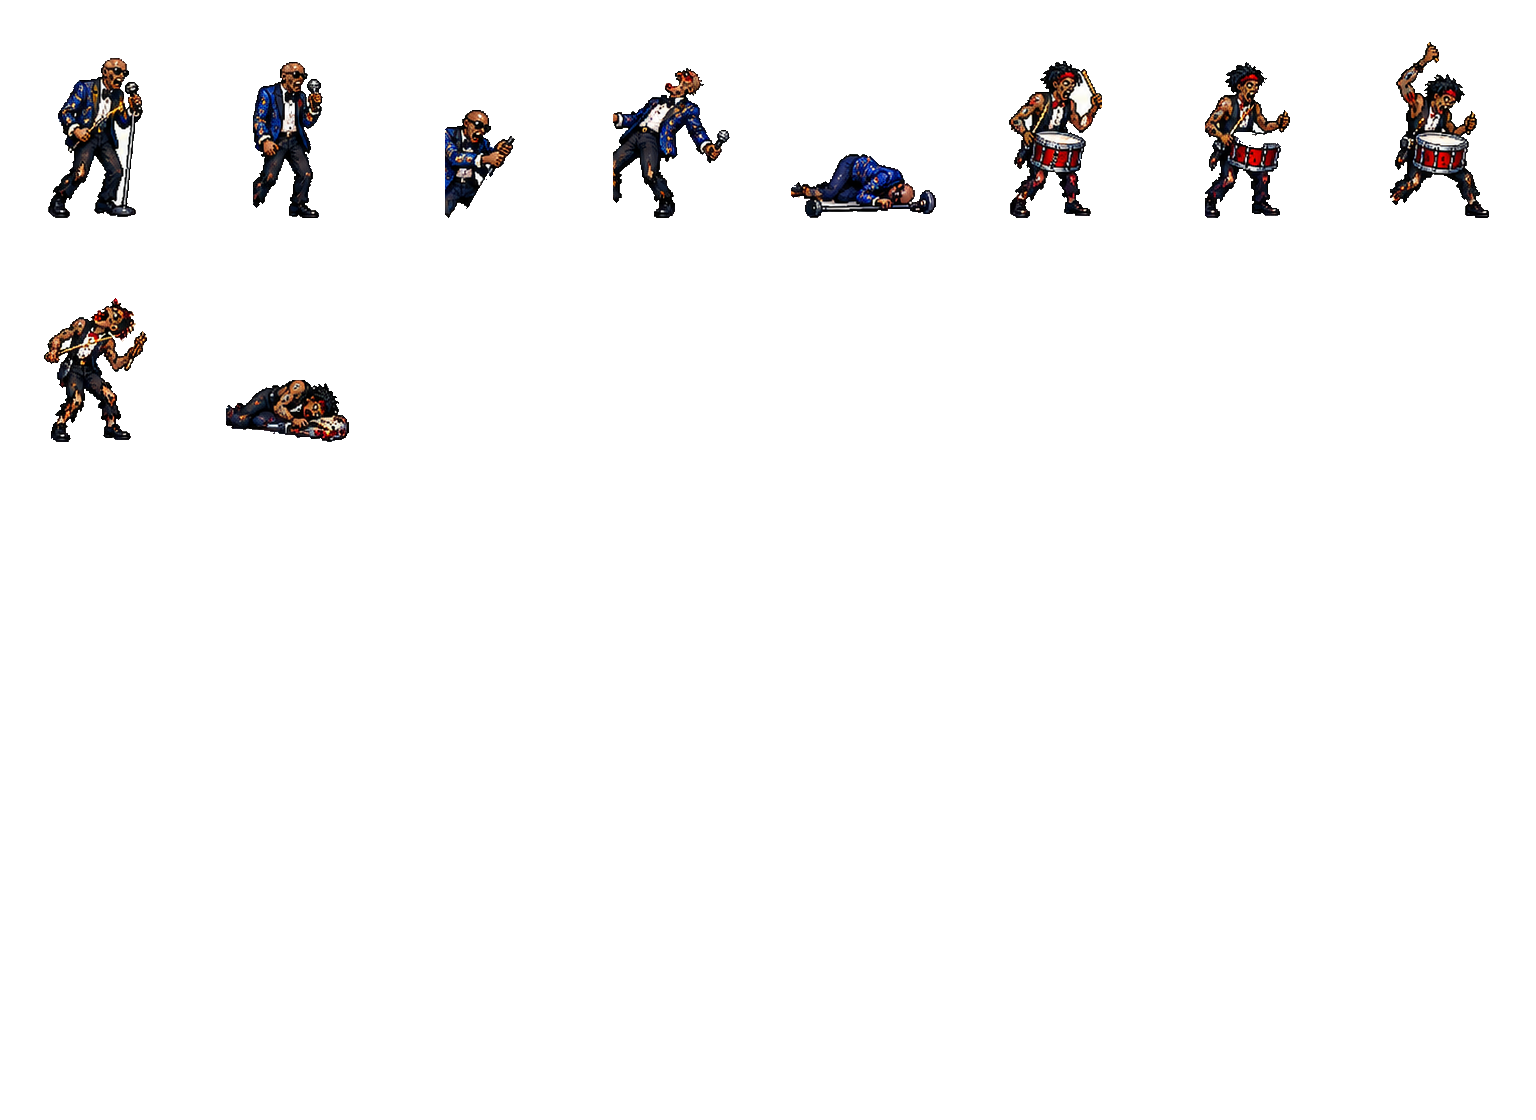
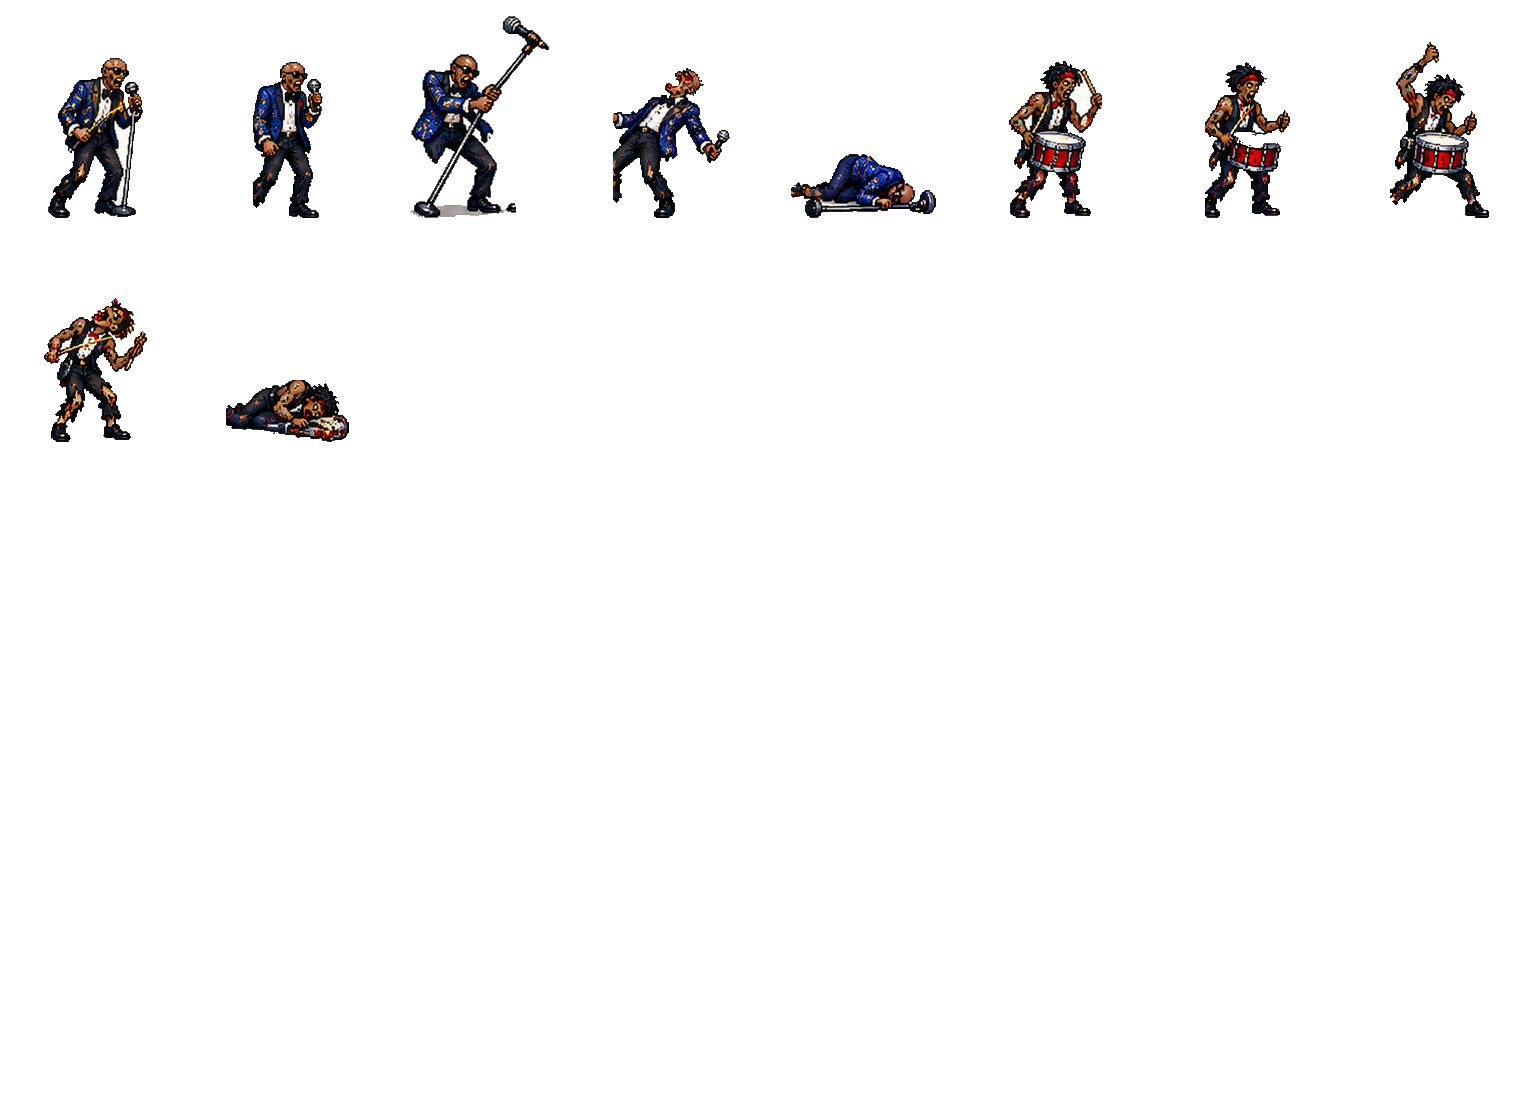
Keep the lead singer's full attack pose intact in the sprite atlas

Changed region(s): [[0.25, 0.0, 0.375, 0.2188]]

diff --git a/index.html b/index.html
@@ -189,6 +189,6 @@ for(const el of document.querySelectorAll('.pad')){let lane=Number(el.dataset.la
 const keymap={ArrowLeft:0,ArrowDown:1,ArrowUp:2,ArrowRight:3,a:0,s:1,w:2,d:3,A:0,S:1,W:2,D:3};document.addEventListener('keydown',e=>{if(screen==='fight')return;if(e.key==='Escape'){if(paused)resumeGame();else if(active)pauseGame();return;}let l=keymap[e.key];if(l===undefined)return;e.preventDefault();if(keyDown.has(e.key))return;keyDown.add(e.key);document.querySelector(`.pad[data-lane="${l}"]`).classList.add('down');press(l);});document.addEventListener('keyup',e=>{let l=keymap[e.key];if(l===undefined)return;e.preventDefault();keyDown.delete(e.key);document.querySelector(`.pad[data-lane="${l}"]`).classList.remove('down');release(l);});
 document.addEventListener('visibilitychange',()=>{if(document.hidden&&active&&!paused)pauseGame();});
 </script>
-<script src="world.js?v=4"></script>
+<script src="world.js?v=5"></script>
 </body>
 </html>

diff --git a/world.js b/world.js
@@ -11,7 +11,7 @@
     const img = new Image(); art[name] = img;
     img.onload = () => resolve(true);
     img.onerror = () => { loadProblem = true; resolve(false); };
-    img.src = `assets/${name}.webp?v=3`;
+    img.src = `assets/${name}.webp?v=${name === 'band-enemies' ? 4 : 3}`;
   }));
   const ready = Promise.all([...preload, fetch('assets/sprites.json?v=3').then(r => {
     if (!r.ok) throw new Error('Sprite metadata unavailable'); return r.json();
